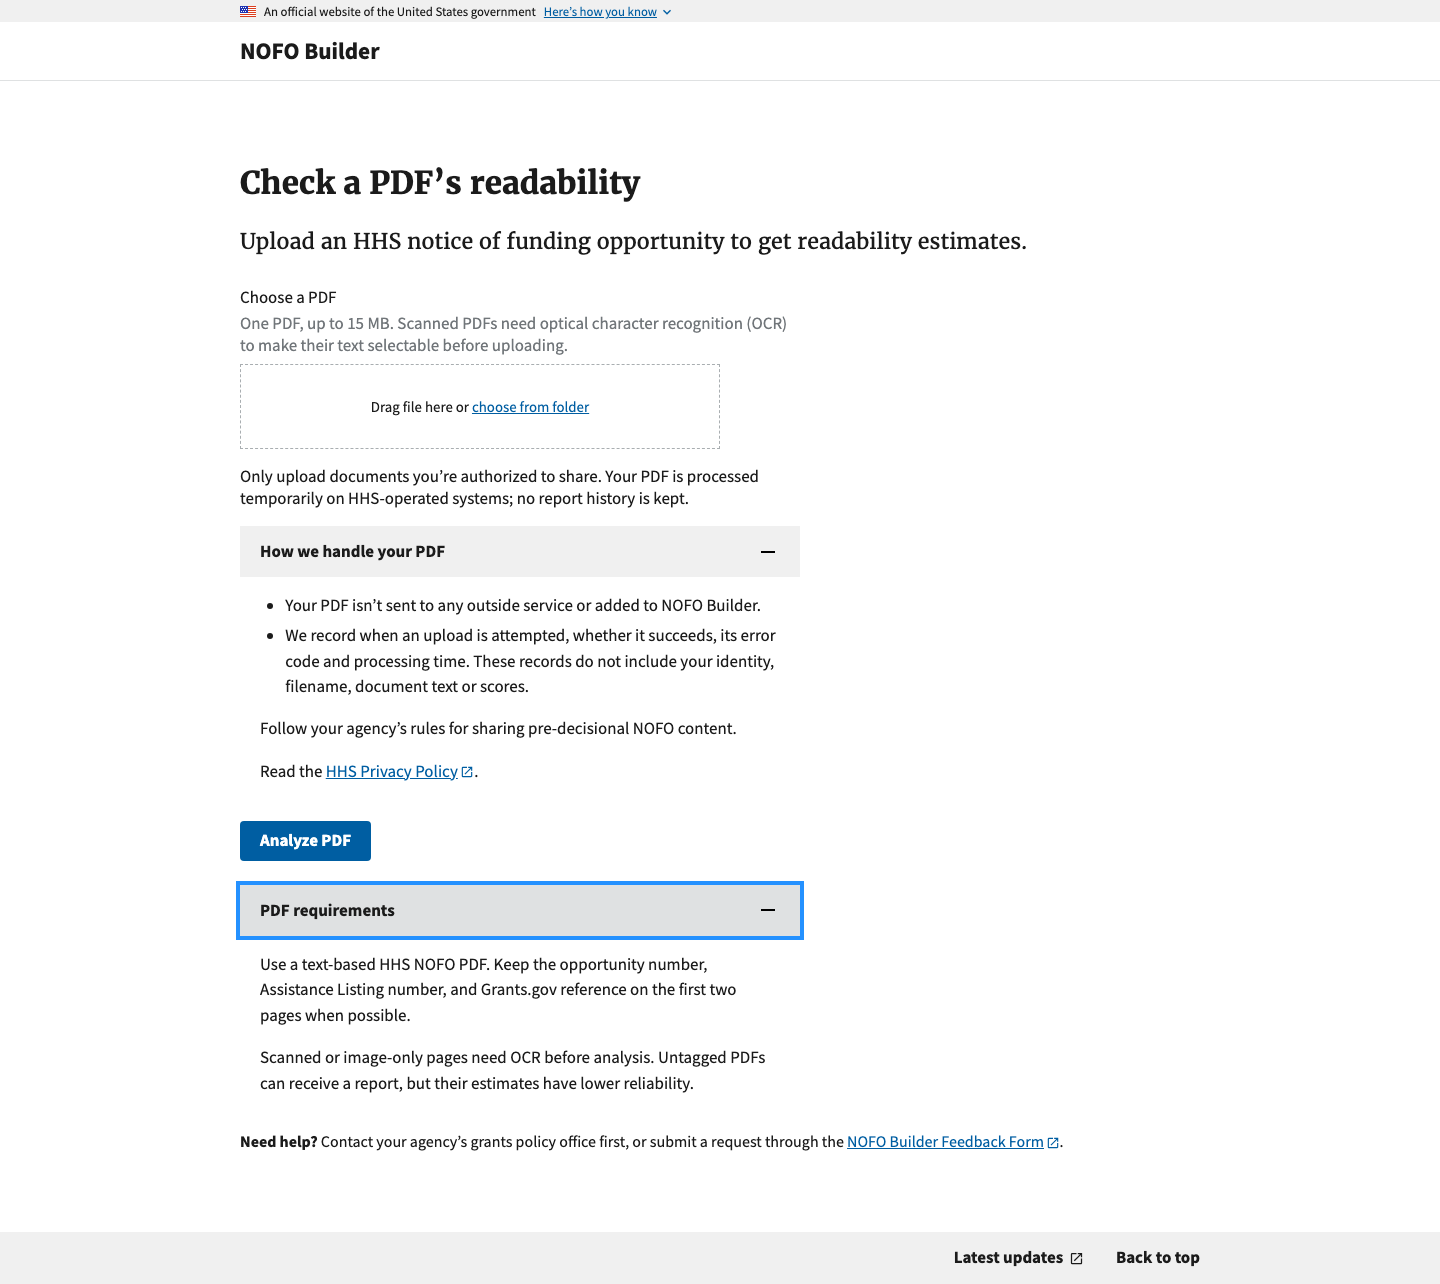
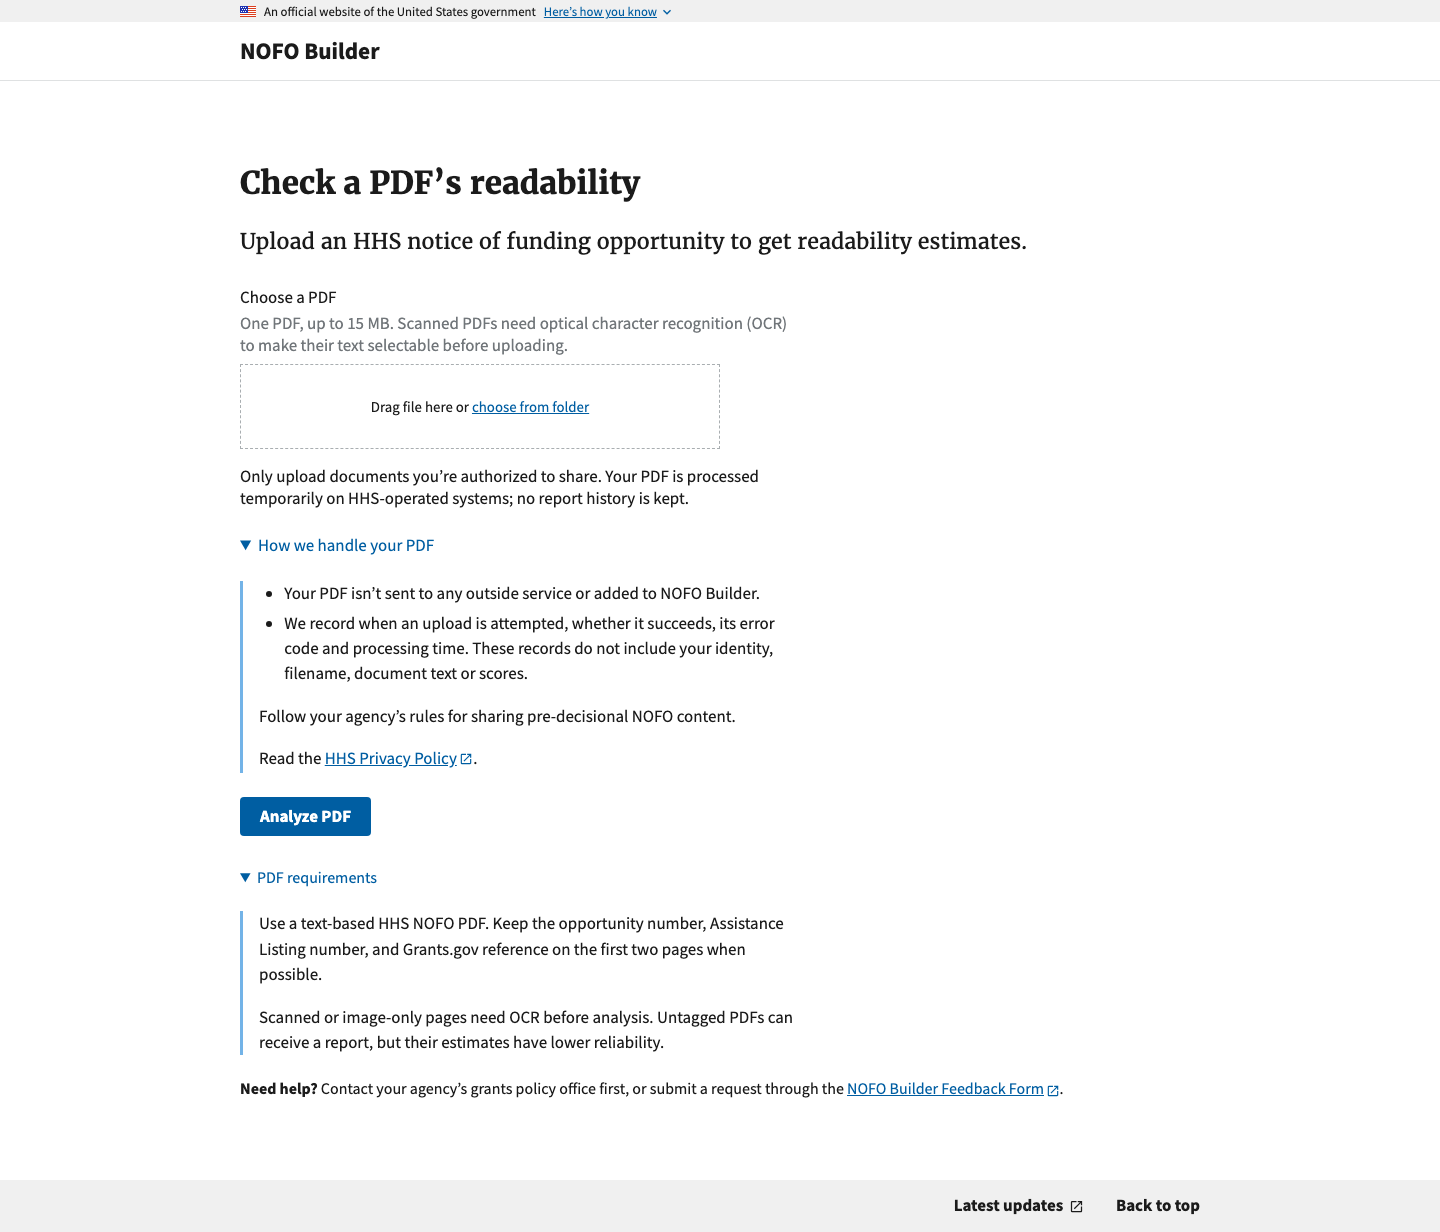
fix: use lightweight additional information on PDF upload page

diff --git a/nofos/bloom_nofos/templates/pdf_readability.html b/nofos/bloom_nofos/templates/pdf_readability.html
@@ -97,11 +97,9 @@
         {% csrf_token %}
         {% include "includes/file_input.html" with id="pdf" label="Choose a PDF" hint=upload_hint accept=".pdf,application/pdf" error=error required=True only %}
         <p class="margin-top-2" id="readability-privacy-notice">Only upload documents you’re authorized to share. Your PDF is processed temporarily on HHS-operated systems; no report history is kept.</p>
-        <div class="usa-accordion margin-top-2">
-          <h2 class="usa-accordion__heading">
-            <button type="button" class="usa-accordion__button" aria-expanded="false" aria-controls="readability-privacy-details">How we handle your PDF</button>
-          </h2>
-          <div id="readability-privacy-details" class="usa-accordion__content usa-prose">
+        <details class="readability-additional-info margin-top-2">
+          <summary>How we handle your PDF</summary>
+          <div id="readability-privacy-details" class="usa-prose">
             <ul class="usa-list">
               <li>Your PDF isn’t sent to any outside service or added to NOFO Builder.</li>
               {% if outcome_recording_enabled %}<li>We record when an upload is attempted, whether it succeeds, its error code and processing time. These records do not include your identity, filename, document text or scores.</li>{% endif %}
@@ -109,19 +107,17 @@
             <p>Follow your agency’s rules for sharing pre-decisional NOFO content.</p>
             <p>Read the <a class="usa-link usa-link--external" href="https://www.hhs.gov/privacy/privacy-policy/index.html" target="_blank" rel="noopener noreferrer">HHS Privacy Policy<span class="usa-sr-only"> (opens in a new tab)</span></a>.</p>
           </div>
-        </div>
+        </details>
         <button type="submit" class="usa-button margin-top-3" id="analyze-pdf-button">Analyze PDF</button>
         <p id="pdf-submit-status" role="status" aria-live="polite" class="margin-top-2"></p>
       </form>
-      <div class="usa-accordion margin-top-3 readability-form">
-        <h2 class="usa-accordion__heading">
-          <button type="button" class="usa-accordion__button" aria-expanded="false" aria-controls="readability-pdf-requirements">PDF requirements</button>
-        </h2>
-        <div id="readability-pdf-requirements" class="usa-accordion__content usa-prose">
+      <details class="readability-additional-info margin-top-3 readability-form">
+          <summary>PDF requirements</summary>
+          <div id="readability-pdf-requirements" class="usa-prose">
           <p>Use a text-based HHS NOFO PDF. Keep the opportunity number, Assistance Listing number, and Grants.gov reference on the first two pages when possible.</p>
           <p>Scanned or image-only pages need OCR before analysis. Untagged PDFs can receive a report, but their estimates have lower reliability.</p>
         </div>
-      </div>
+        </details>
       <p class="margin-top-3"><strong>Need help?</strong> Contact your agency’s grants policy office first, or submit a request through the <a class="usa-link usa-link--external" href="https://forms.office.com/r/KH4icQuZ0S" target="_blank" rel="nofollow noopener noreferrer">NOFO Builder Feedback Form<span class="usa-sr-only"> (opens in a new tab)</span></a>.</p>
     {% endif %}
   </div>

diff --git a/nofos/bloom_nofos/static/pdf_readability.css b/nofos/bloom_nofos/static/pdf_readability.css
@@ -29,3 +29,7 @@
   .usa-alert { border: 1px solid #555; background: #fff !important; color: #000; }
   a { color: #000; text-decoration: none; }
 }
+
+/* Lightweight contextual help, using native disclosure semantics. */
+.readability-additional-info > summary { color: #005ea2; cursor: pointer; padding: .5rem 0; }
+.readability-additional-info[open] > .usa-prose { border-left: 3px solid #73b3e7; padding-left: 1rem; }

diff --git a/nofos/bloom_nofos/tests_bloom_nofos/test_pdf_readability.py b/nofos/bloom_nofos/tests_bloom_nofos/test_pdf_readability.py
@@ -138,7 +138,10 @@ class PdfReadabilityPageTests(TestCase):
         self.assertContains(response, 'id="readability-privacy-notice"')
         self.assertContains(response, "How we handle your PDF")
         self.assertContains(response, "optical character recognition (OCR)")
-        self.assertContains(response, 'aria-controls="readability-pdf-requirements"')
+        self.assertContains(response, "<summary>PDF requirements</summary>", html=True)
+        self.assertContains(
+            response, "<summary>How we handle your PDF</summary>", html=True
+        )
         self.assertLess(
             content.index('id="pdf"'), content.index('id="readability-privacy-notice"')
         )

diff --git a/documentation/review-evidence/authenticated-readability-1033/README.md b/documentation/review-evidence/authenticated-readability-1033/README.md
@@ -112,3 +112,12 @@ tests passed. No shared switches or operational settings were changed.
 - [Revised upload page](upload-revised.png)
 - [Expanded supporting information](upload-revised-details.png)
 - [Mobile upload page](upload-revised-mobile.png)
+
+### Lightweight contextual help correction
+
+Replaced the two boxed USWDS accordions with native `details`/`summary`
+disclosures, matching the approved mockup's Additional Info appearance. This is
+local contextual-help styling, not an imported VA web component. Essential upload
+requirements and sharing notice remain visible. Regenerated all three revised
+screenshots; desktop/mobile disclosure interaction and containment checks passed,
+as did the 35 public/authenticated page tests.
